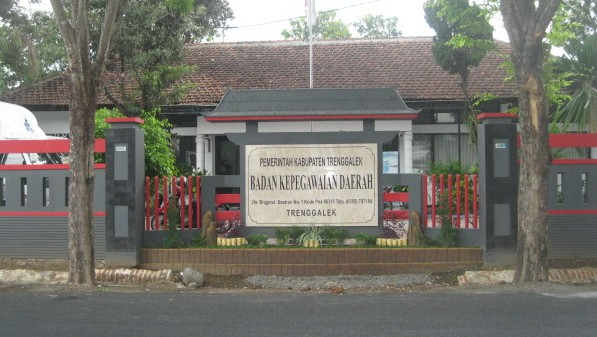
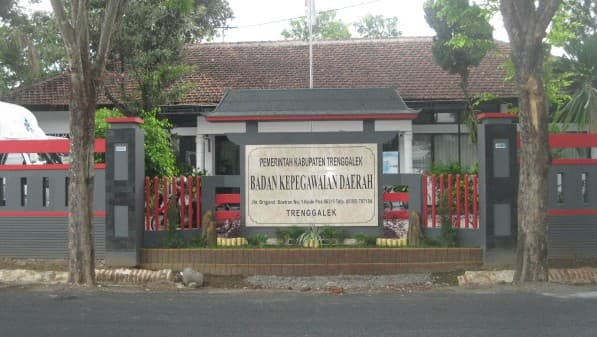
Kompress gambar

diff --git a/index.html b/index.html
@@ -35,7 +35,7 @@
                 <br>
                 <div class="card">
                     <h2><a href="#sejarah">Sejarah</a></h2>
-                    <img class="featured-image" src="assets/image/sejarah.jpg" alt="sejarah">
+                    <img class="featured-image" src="assets/image/sejarah.jpg" alt="Gambar Kantor Trenggalek">
                     <p>
                         Dari berbagai sumber yang dapat dikumpulkan, kawasan Trenggalek telah dihuni selama ribuan
                         tahun,
@@ -101,7 +101,7 @@
                 <br>
                 <div class="card">
                     <h2><a href="#geografis">Geografis</a></h2>
-                    <img class="featured-image" src="assets/image/geografis.jpg" alt="geografis">
+                    <img class="featured-image" src="assets/image/geografis.jpg" alt="Gambar Gunung Rajekwesi">
                     <p>
                         Kabupaten Trenggalek merupakan Kabupaten yang terletak di bagian selatan dari
                         wilayah Propinsi Jawa Timur, sebuah kabupaten dengan dominasi wilayah pegunungan
@@ -126,7 +126,7 @@
 
                     <section>
                         <h3>Gua Lowo</h3>
-                        <img class="featured-image" src="assets/image/gua-lowo.jpg" alt="Gua Lowo">
+                        <img class="featured-image" src="assets/image/gua-lowo.jpg" alt="Gambar Gua Lowo">
                         <p>
                             Merupakan salah satu gua yang terletak di Desa Watuagung, Kecamatan Watulimo, sekitar 30 km
                             Tenggara kota Trenggalek. Berdasarkan ahli gua, Mr Gilbert Manthovani dan Dr Robert K Kho
@@ -139,7 +139,7 @@
 
                     <section>
                         <h3>Pantai Prigi</h3>
-                        <img class="featured-image" src="assets/image/pantai-prigi.jpg" alt="Pantai Prigi">
+                        <img class="featured-image" src="assets/image/pantai-prigi.jpg" alt="Gambar Pantai Prigi">
                         <p>
                             Pusat pariwisata dan perekonomian warga Kecamatan Watulimo. Terdapat tempat pelelangan ikan
                             dan
@@ -149,7 +149,7 @@
 
                     <section>
                         <h3>Pantai Blado</h3>
-                        <img class="featured-image" src="assets/image/pantai-blado.jpg" alt="Pantai Blado">
+                        <img class="featured-image" src="assets/image/pantai-blado.jpg" alt="Gambar Pantai Blado">
                         <p>
                             Terletak di Kecamatan Munjungan, merupakan tempat wisata alami yang berada di arah Selatan
                             dari
@@ -168,7 +168,7 @@
                         <h2>Kota Trenggalek</h2>
                         <p>Kota Tempe Keripik, Kota Alen-Alen</p>
                         <figure>
-                            <img src="assets/image/logo.png">
+                            <img src="assets/image/logo.webp" alt="Lambang Trenggalek">
                             <figcaption>Lambang Trenggalek</figcaption>
                         </figure>
                     </header>
